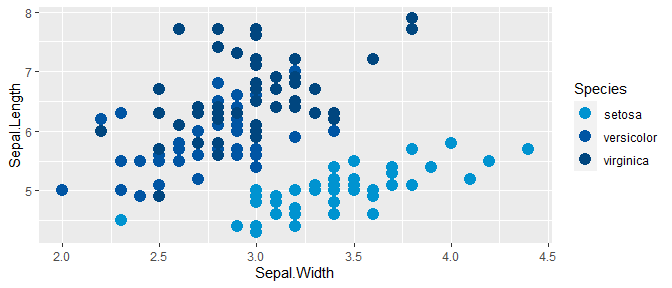
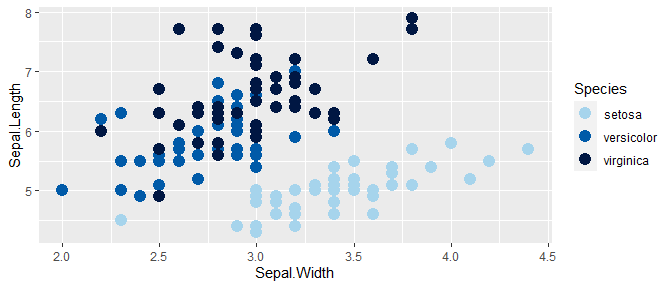
update readme and documentation

diff --git a/README.md b/README.md
@@ -1,24 +1,36 @@
 <!-- README.md is generated from README.Rmd. Please edit that file -->
 
-# nmfspalette <a href={https:://nmfs-fish-tools.github.io/nmfspalette}><img src="man/figures/logo.png" align="right" width=139 height=139 alt="logo with an image of a fish in multiple palette colors" />
+# nmfspalette <a href={https:://nmfs-general-modeling-tools.github.io/nmfspalette}><img src="man/figures/logo.png" align="right" width=139 height=139 alt="logo with an image of a fish in multiple palette colors" />
 
 an R color palette for `ggplot2` using NOAA Fisheries branding colors
 
-![R-CMD-check](https://github.com/nmfs-fish-tools/nmfspalette/workflows/R-CMD-check/badge.svg)
+![R-CMD-check](https://github.com/nmfs-general-modeling-tools/nmfspalette/workflows/R-CMD-check/badge.svg)
 
------
+------------------------------------------------------------------------
 
 This implements these
 [steps](https://drsimonj.svbtle.com/creating-corporate-colour-palettes-for-ggplot2)
 to create a `ggplot2` compatible palette according to NOAA Fisheries
-branding. The branding materials can be found [here](https://drive.google.com/drive/folders/1pcMRQHGdzX4NfsiDNTCYIBpRyP1-F57J) (NOAA internal only).
+branding. The branding materials can be found
+[here](https://drive.google.com/drive/folders/1pcMRQHGdzX4NfsiDNTCYIBpRyP1-F57J)
+(NOAA internal only).
 
 ## Installation
 
 To install from Github use the following:
 
 ``` r
-remotes::install_github("nmfs-fish-tools/nmfspalette")
+remotes::install_github("nmfs-general-modeling-tools/nmfspalette")
+#> -- R CMD build --------------------------------------------------------------------------------
+#>       v  checking for file 'C:\Users\chris\AppData\Local\Temp\Rtmpi2pedi\remotes23a81fbd6f80\nmfs-fish-tools-nmfspalette-009e347/DESCRIPTION'
+#>       -  preparing 'nmfspalette': (919ms)
+#>    checking DESCRIPTION meta-information ...  v  checking DESCRIPTION meta-information
+#>       -  checking for LF line-endings in source and make files and shell scripts
+#>       -  checking for empty or unneeded directories
+#>      Omitted 'LazyData' from DESCRIPTION
+#>       -  building 'nmfspalette_0.0.0.9000.tar.gz'
+#>      
+#> 
 library(nmfspalette)
 ```
 
@@ -41,8 +53,8 @@ You can change the number of colors (10 shown below).
 
 ``` r
 nmfspalette::nmfs_palette("oceans")(10)
-#>  [1] "#0093D0" "#0085C6" "#0077BC" "#0069B2" "#005BA8" "#00539F" "#005097"
-#>  [8] "#004C8F" "#004987" "#00467F"
+#>  [1] "#A6D4EC" "#78BEE2" "#4AA8D9" "#1C92CF" "#0072BB" "#004295" "#002B7B" "#002467" "#001D55"
+#> [10] "#001743"
 ```
 
 ## Palettes
@@ -52,7 +64,7 @@ To see the palettes, use the `display_nmfs_palette()` function.
 ### oceans
 
 ``` r
-nmfspalette::display_nmfs_palette("oceans", 4)
+nmfspalette::display_nmfs_palette("oceans", 6)
 ```
 
 ![](man/figures/displ_oceans-1.png)<!-- -->
@@ -60,7 +72,7 @@ nmfspalette::display_nmfs_palette("oceans", 4)
 ### waves
 
 ``` r
-nmfspalette::display_nmfs_palette("waves", 4)
+nmfspalette::display_nmfs_palette("waves", 6)
 ```
 
 ![](man/figures/displ_waves-1.png)<!-- -->
@@ -68,7 +80,7 @@ nmfspalette::display_nmfs_palette("waves", 4)
 ### seagrass
 
 ``` r
-nmfspalette::display_nmfs_palette("seagrass", 4)
+nmfspalette::display_nmfs_palette("seagrass", 6)
 ```
 
 ![](man/figures/displ_seagrass-1.png)<!-- -->
@@ -76,7 +88,7 @@ nmfspalette::display_nmfs_palette("seagrass", 4)
 ### urchin
 
 ``` r
-nmfspalette::display_nmfs_palette("urchin", 4)
+nmfspalette::display_nmfs_palette("urchin", 6)
 ```
 
 ![](man/figures/displ_urchin-1.png)<!-- -->
@@ -84,7 +96,7 @@ nmfspalette::display_nmfs_palette("urchin", 4)
 ### crustacean
 
 ``` r
-nmfspalette::display_nmfs_palette("crustacean", 4)
+nmfspalette::display_nmfs_palette("crustacean", 6)
 ```
 
 ![](man/figures/displ_crustacean-1.png)<!-- -->
@@ -92,26 +104,18 @@ nmfspalette::display_nmfs_palette("crustacean", 4)
 ### coral
 
 ``` r
-nmfspalette::display_nmfs_palette("coral", 4)
+nmfspalette::display_nmfs_palette("coral", 6)
 ```
 
 ![](man/figures/displ_coral-1.png)<!-- -->
 
-### regional web (discrete)
+### regional (discrete)
 
 ``` r
-nmfspalette::display_nmfs_palette("regional web", 6)
+nmfspalette::display_nmfs_palette("regional", 6)
 ```
 
 ![](man/figures/displ_regional_web-1.png)<!-- -->
-
-### secondary (discrete)
-
-``` r
-nmfspalette::display_nmfs_palette("secondary", 4)
-```
-
-![](man/figures/displ_secondary-1.png)<!-- -->
 
 ## Examples
 
@@ -123,7 +127,7 @@ in the color names.
 ``` r
 nmfspalette::nmfs_cols("processblue")
 #> processblue 
-#>   "#0093D0"
+#>   "#0085CA"
 ```
 
 To use the palettes with `ggplot2`, the `scale_color_nmfs()` and
@@ -132,8 +136,8 @@ To use the palettes with `ggplot2`, the `scale_color_nmfs()` and
 
 ``` r
 p <- ggplot(iris, aes(Sepal.Width, Sepal.Length, color = Species)) +
-     geom_point(size = 4) +
-     scale_color_nmfs()
+  geom_point(size = 4) +
+  scale_color_nmfs()
 p
 ```
 
@@ -145,12 +149,12 @@ argument for now, this is an example using the “crustacean” palette
 ``` r
 ggplot(faithfuld, aes(waiting, eruptions)) +
   geom_raster(aes(fill = density)) +
-  scale_fill_nmfs(palette="crustacean", discrete=FALSE, reverse=TRUE)
+  scale_fill_nmfs(palette = "crustacean", discrete = FALSE, reverse = TRUE)
 ```
 
 ![](man/figures/scale_fill_example-1.png)<!-- -->
 
------
+------------------------------------------------------------------------
 
 ## Disclaimer
 
@@ -168,14 +172,14 @@ The Department of Commerce seal and logo, or the seal and logo of a DOC
 bureau, shall not be used in any manner to imply endorsement of any
 commercial product or activity by DOC or the United States Government.”
 
-  - This project code is made available through GitHub but is managed by
+-   This project code is made available through GitHub but is managed by
     NOAA at
     <https://vlab.ncep.noaa.gov/redmine/projects/integrated-fisheries-toolbox/files>
 
------
+------------------------------------------------------------------------
 
 <a href="https://www.fisheries.noaa.gov/"><img src="man/figures/noaa-fisheries-rgb-2line-horizontal-small.png" height=75 alt="NOAA Fisheries" />
 
-[U.S. Department of Commerce](https://www.commerce.gov/) | [National
-Oceanographic and Atmospheric Administration](https://www.noaa.gov) |
+[U.S. Department of Commerce](https://www.commerce.gov/) \| [National
+Oceanographic and Atmospheric Administration](https://www.noaa.gov) \|
 [NOAA Fisheries](https://www.fisheries.noaa.gov/)
